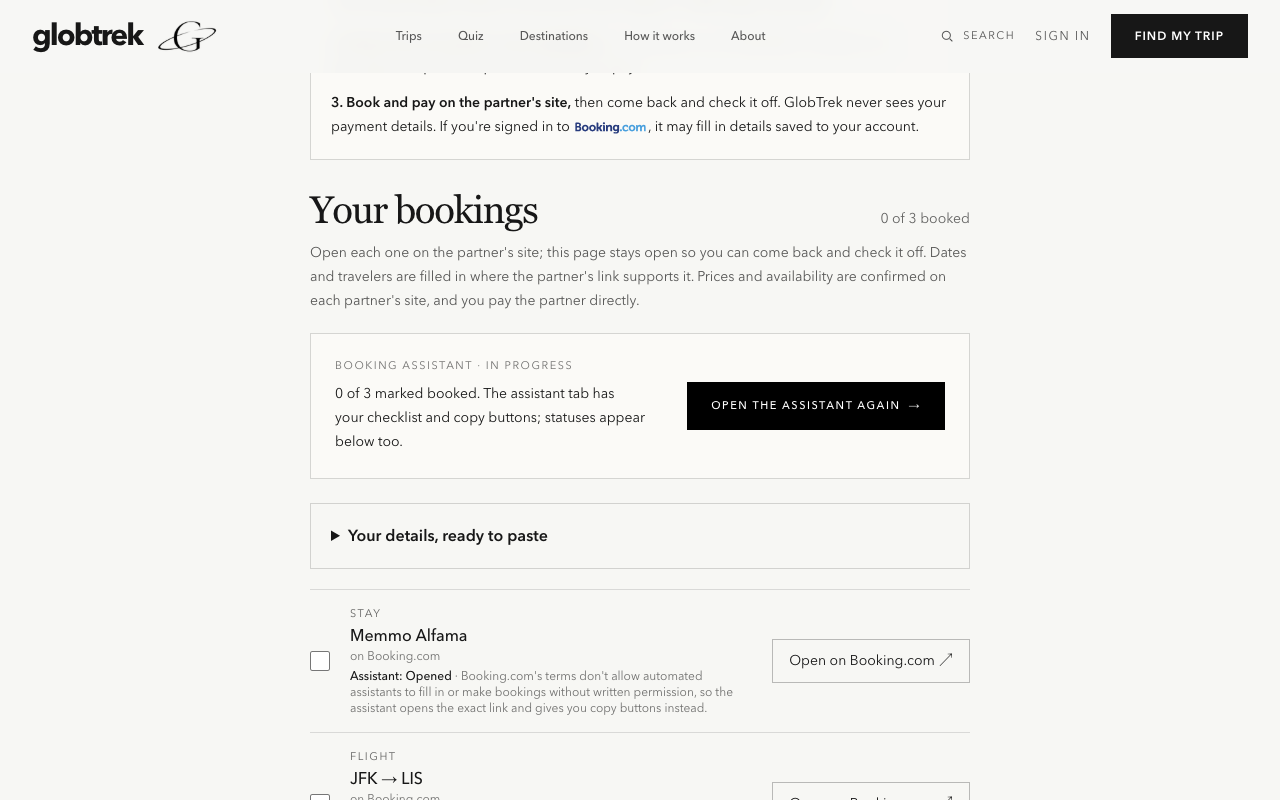
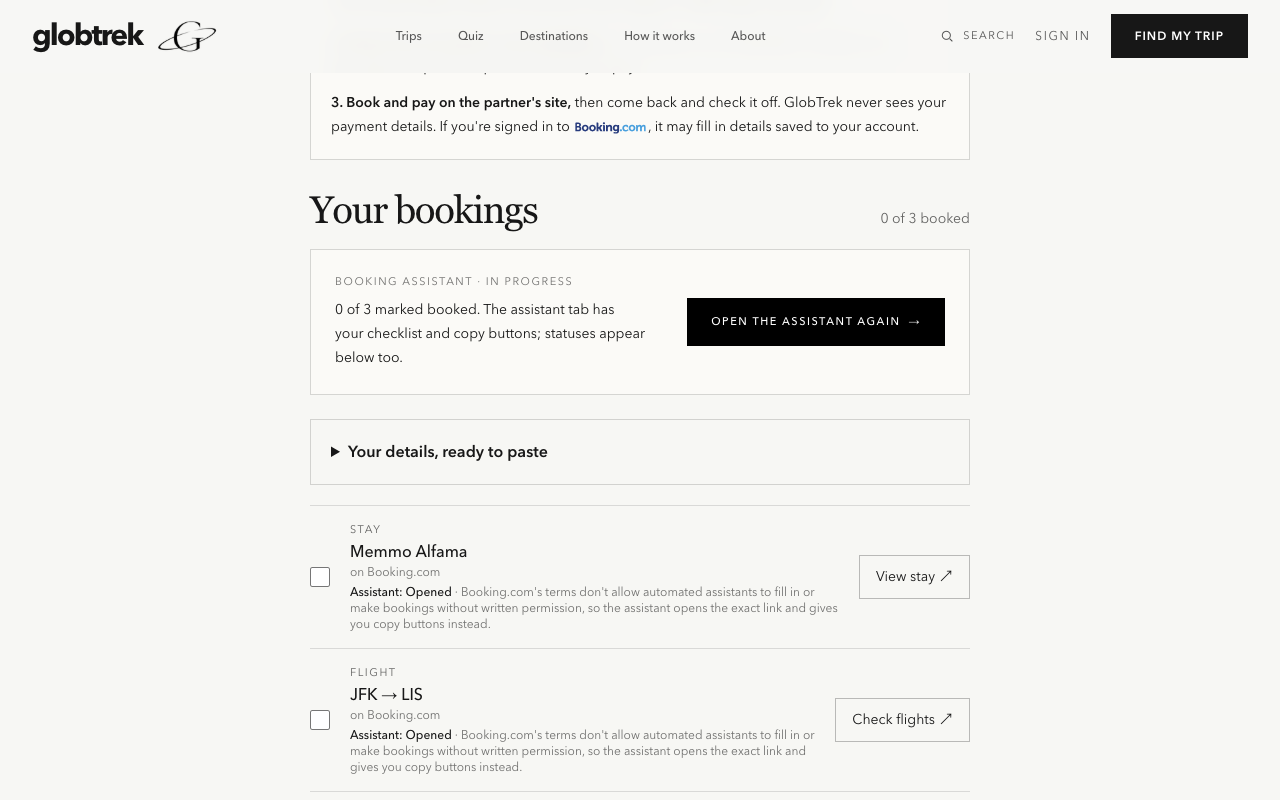
Booking Assistant: small accept card on every page, one Accept opens every booking
Site: a corner card on every page (desktop Chrome only, dismissible, same look
as the rest of the site). Without the extension it links to the Chrome Web
Store listing; with it and a trip on the page it asks "Book this trip from one
tab?" and Accept starts the assistant. The install link now defaults to the
accepted store listing.

Extension 0.2.0: START_SESSION takes an optional openAll flag, so Accept opens
every partner tab at GlobTrek's exact links and fills on load where the partner
allows. It still never submits, accepts terms or pays. 0.1.0 keeps working: it
opens the assistant tab and the traveler chooses.

diff --git a/app/components/AssistantPrompt.jsx b/app/components/AssistantPrompt.jsx
@@ -1,0 +1,92 @@
+"use client";
+
+import Link from "next/link";
+import { usePathname } from "next/navigation";
+import { useEffect, useState } from "react";
+import { track } from "@vercel/analytics";
+import { ASSISTANT_INSTALL_URL, assistantRequest, canUseExtension, subscribeAssistantTrip } from "../lib/booking/assistant";
+
+const INSTALL_DISMISSED = "globtrek:assistant-prompt:install";
+const TRIP_DISMISSED = (tripKey) => `globtrek:assistant-prompt:${tripKey}`;
+
+function remembered(storage, key) {
+  try { return window[storage].getItem(key) === "1"; } catch { return false; }
+}
+
+function remember(storage, key) {
+  try { window[storage].setItem(key, "1"); } catch {}
+}
+
+// The small corner card on every page, desktop Chrome only. With the assistant
+// installed and a trip on the page it asks once whether to book it from one tab;
+// without the assistant it says it exists. Either can be dismissed for good.
+export function AssistantPrompt() {
+  const pathname = usePathname();
+  const [installed, setInstalled] = useState(null);
+  const [trip, setTrip] = useState(null);
+  const [dismissed, setDismissed] = useState("");
+  const [opened, setOpened] = useState(0);
+
+  useEffect(() => subscribeAssistantTrip(setTrip), []);
+
+  useEffect(() => {
+    let cancelled = false;
+    if (!canUseExtension(window.navigator)) return undefined;
+    // Let the page settle first; the corner card is never the first thing to appear.
+    const timer = setTimeout(async () => {
+      const pong = await assistantRequest("PING", {}, { timeoutMs: 900 });
+      if (!cancelled) setInstalled(Boolean(pong?.ok));
+    }, 1200);
+    return () => { cancelled = true; clearTimeout(timer); };
+  }, []);
+
+  const mode = installed === null || pathname?.startsWith("/booking-assistant") ? null
+    : installed ? (trip?.state === "present" && !trip.session && trip.items ? "accept" : opened ? "opened" : null)
+    : remembered("localStorage", INSTALL_DISMISSED) ? null : "install";
+  const tripKey = trip?.tripKey || "";
+
+  useEffect(() => {
+    if (!opened) return undefined;
+    const timer = setTimeout(() => setOpened(0), 9000);
+    return () => clearTimeout(timer);
+  }, [opened]);
+
+  if (!mode || dismissed === `${mode}:${tripKey}` || (mode === "accept" && remembered("sessionStorage", TRIP_DISMISSED(tripKey)))) return null;
+
+  function dismiss() {
+    if (mode === "install") remember("localStorage", INSTALL_DISMISSED);
+    if (mode === "accept") remember("sessionStorage", TRIP_DISMISSED(tripKey));
+    track("assistant_prompt_dismissed", { mode });
+    setDismissed(`${mode}:${tripKey}`);
+    setOpened(0);
+  }
+
+  async function accept() {
+    const count = trip.items;
+    track("assistant_prompt_accepted", { items: count });
+    await trip.start({ openAll: true });
+    setOpened(count);
+  }
+
+  return <aside aria-label="GlobTrek Booking Assistant" className="fixed bottom-24 right-6 z-50 hidden w-[22rem] border border-black/10 bg-surface p-5 text-ink shadow-overlay sm:block">
+    <div className="flex items-start justify-between gap-4">
+      <p className="text-micro uppercase tracking-label text-black/55">{mode === "install" ? "New · Booking assistant" : "Booking assistant"}</p>
+      <button type="button" onClick={dismiss} aria-label="Dismiss" className="-mr-2 -mt-2 grid h-8 w-8 place-items-center text-lg leading-none text-black/55 hover:text-ink">×</button>
+    </div>
+    {mode === "install" ? <>
+      <p className="mt-2 font-serif text-xl leading-tight tracking-tight-2">Book your whole trip from one tab.</p>
+      <p className="mt-2 text-sm leading-6 text-black/70">A free Chrome extension. It opens every booking and fills your details where the partner allows. You review and pay yourself.</p>
+      <div className="mt-4 flex items-center gap-4">
+        <a href={ASSISTANT_INSTALL_URL} onClick={() => track("assistant_install_clicked", { from: "prompt" })} className="inline-flex min-h-10 items-center bg-black px-5 text-micro font-medium uppercase tracking-label text-white">Add to Chrome</a>
+        <Link href="/booking-assistant" className="text-sm underline decoration-black/25 underline-offset-4 hover:decoration-ink">How it works</Link>
+      </div>
+    </> : mode === "accept" ? <>
+      <p className="mt-2 font-serif text-xl leading-tight tracking-tight-2">Book this trip from one tab?</p>
+      <p className="mt-2 text-sm leading-6 text-black/70">Opens {trip.items === 1 ? "your booking" : `all ${trip.items} bookings`}, fills your details where the partner allows, and stops before you pay.</p>
+      <div className="mt-4 flex items-center gap-4">
+        <button type="button" onClick={accept} disabled={trip.busy} className="inline-flex min-h-10 items-center bg-black px-5 text-micro font-medium uppercase tracking-label text-white disabled:opacity-40">{trip.busy ? "Opening…" : "Accept"}</button>
+        <button type="button" onClick={dismiss} className="text-sm underline decoration-black/25 underline-offset-4 hover:decoration-ink">Not now</button>
+      </div>
+    </> : <p role="status" className="mt-2 text-sm leading-6">Opened {opened === 1 ? "your booking" : `${opened} bookings`}. The GlobTrek Assistant tab has your checklist and copy buttons.</p>}
+  </aside>;
+}

diff --git a/app/components/BookingAssistant.jsx b/app/components/BookingAssistant.jsx
@@ -3,7 +3,7 @@
 import Link from "next/link";
 import { useEffect, useRef, useState } from "react";
 import { track } from "@vercel/analytics";
-import { ASSISTANT_INSTALL_URL, assistantRequest, assistantTrip, canUseExtension, onAssistantStatus } from "../lib/booking/assistant";
+import { ASSISTANT_INSTALL_URL, assistantRequest, assistantTrip, canUseExtension, onAssistantStatus, shareAssistantTrip, supportsOpenAll } from "../lib/booking/assistant";
 
 const SESSION_KEY = (tripKey) => `globtrek:assistant-session:${tripKey}`;
 
@@ -15,8 +15,11 @@ export function BookingAssistant({ entries, trip, tripKey, onStatuses }) {
   const [session, setSession] = useState(null);
   const [error, setError] = useState("");
   const [busy, setBusy] = useState(false);
+  const [version, setVersion] = useState("");
   const dialog = useRef(null);
+  const startRef = useRef(null);
   const payload = assistantTrip({ entries, ...trip });
+  const itemCount = payload?.items.length ?? 0;
 
   useEffect(() => {
     let cancelled = false;
@@ -34,6 +37,7 @@ export function BookingAssistant({ entries, trip, tripKey, onStatuses }) {
       if (cancelled) return;
       if (!pong?.ok) { setState("absent"); return; }
       setState("present");
+      setVersion(typeof pong.version === "string" ? pong.version : "");
       const existing = readSession();
       if (existing) {
         const status = await assistantRequest("GET_STATUS", { sessionId: existing });
@@ -43,7 +47,13 @@ export function BookingAssistant({ entries, trip, tripKey, onStatuses }) {
     return () => { cancelled = true; unsubscribe(); };
   }, [tripKey]); // eslint-disable-line react-hooks/exhaustive-deps
 
-  async function start() {
+  // Offer this trip to the site-wide prompt while the checklist is on the page.
+  useEffect(() => {
+    if (!itemCount) return undefined;
+    return shareAssistantTrip({ tripKey, items: itemCount, state, session, busy, start: (options) => startRef.current?.(options) });
+  }, [tripKey, itemCount, state, session, busy]);
+
+  async function start({ openAll = false } = {}) {
     if (state !== "present") { dialog.current?.showModal(); track("assistant_install_prompt", { state }); return; }
     if (!payload) return;
     if (session) {
@@ -53,14 +63,16 @@ export function BookingAssistant({ entries, trip, tripKey, onStatuses }) {
     }
     setBusy(true);
     setError("");
-    const response = await assistantRequest("START_SESSION", { trip: payload }, { timeoutMs: 5000 });
+    // openAll opens every booking tab straight away; older versions open the assistant tab and let the traveler choose.
+    const response = await assistantRequest("START_SESSION", { trip: payload, ...(openAll && supportsOpenAll(version) ? { openAll: true } : {}) }, { timeoutMs: 8000 });
     setBusy(false);
     if (!response?.ok) { setError("The assistant couldn't start. Open each booking below instead."); return; }
     try { window.sessionStorage.setItem(SESSION_KEY(tripKey), response.sessionId); } catch {}
     setSession(response.status);
     onStatuses?.(response.status);
-    track("assistant_session_started", { items: payload.items.length });
+    track("assistant_session_started", { items: payload.items.length, openAll });
   }
+  useEffect(() => { startRef.current = start; });
 
   if (!payload) return null;
   const done = session ? session.items.filter((item) => item.status === "user_complete").length : 0;
@@ -77,7 +89,7 @@ export function BookingAssistant({ entries, trip, tripKey, onStatuses }) {
           : <p className="mt-2 max-w-xl text-sm leading-6">Open {payload.items.length === 1 ? "your booking" : `all ${payload.items.length} bookings`} at once. You pay each provider on their site.</p>}
         {error ? <p role="alert" className="mt-2 text-sm text-danger">{error}</p> : null}
       </div>
-      <button type="button" onClick={start} disabled={state === "checking" || busy} aria-haspopup={state === "present" ? undefined : "dialog"} className="inline-flex min-h-12 items-center justify-center gap-2 bg-black px-6 text-micro font-medium uppercase tracking-label text-white disabled:opacity-40">
+      <button type="button" onClick={() => start()} disabled={state === "checking" || busy} aria-haspopup={state === "present" ? undefined : "dialog"} className="inline-flex min-h-12 items-center justify-center gap-2 bg-black px-6 text-micro font-medium uppercase tracking-label text-white disabled:opacity-40">
         {state === "checking" ? "Checking…" : busy ? "Opening…" : session ? "Open the assistant again" : "Book my trip"} <span aria-hidden="true">→</span>
       </button>
     </div>}

diff --git a/extension/src/shared/schema.ts b/extension/src/shared/schema.ts
@@ -47,7 +47,7 @@ export type WebRequest =
   | { channel: typeof CHANNEL; v: 1; kind: "request"; requestId: string; type: "PING" }
   | { channel: typeof CHANNEL; v: 1; kind: "request"; requestId: string; type: "GET_STATUS"; sessionId: string }
   | { channel: typeof CHANNEL; v: 1; kind: "request"; requestId: string; type: "OPEN_SESSION"; sessionId: string }
-  | { channel: typeof CHANNEL; v: 1; kind: "request"; requestId: string; type: "START_SESSION"; trip: TripPayload };
+  | { channel: typeof CHANNEL; v: 1; kind: "request"; requestId: string; type: "START_SESSION"; trip: TripPayload; openAll: boolean };
 
 /** What the website may learn about a session: statuses only, never traveler data. */
 export interface PublicSessionStatus {
@@ -175,7 +175,7 @@ export function byteLength(value: unknown): number {
 /** Validates a request from the website. Throws SchemaError with a safe message. */
 export function validateWebRequest(value: unknown, { dev = false }: { dev?: boolean } = {}): WebRequest {
   if (byteLength(value) > MAX_MESSAGE_BYTES) throw new SchemaError("message", "is too large");
-  const base = exactKeys(value, "message", ["channel", "v", "kind", "requestId", "type"], ["trip", "sessionId"]);
+  const base = exactKeys(value, "message", ["channel", "v", "kind", "requestId", "type"], ["trip", "sessionId", "openAll"]);
   if (base.channel !== CHANNEL) throw new SchemaError("message.channel", "is not the booking assistant channel");
   if (base.v !== PROTOCOL_VERSION) throw new SchemaError("message.v", "is an unsupported protocol version");
   if (base.kind !== "request") throw new SchemaError("message.kind", "must be request");
@@ -191,8 +191,10 @@ export function validateWebRequest(value: unknown, { dev = false }: { dev?: bool
       exactKeys(value, "message", ["channel", "v", "kind", "requestId", "type", "sessionId"]);
       return { channel: CHANNEL, v: 1, kind: "request", requestId, type: "OPEN_SESSION", sessionId: str(base.sessionId, "message.sessionId", { max: 42, pattern: SESSION_ID }) };
     case "START_SESSION":
-      exactKeys(value, "message", ["channel", "v", "kind", "requestId", "type", "trip"]);
-      return { channel: CHANNEL, v: 1, kind: "request", requestId, type: "START_SESSION", trip: validateTrip(base.trip, { dev }) };
+      exactKeys(value, "message", ["channel", "v", "kind", "requestId", "type", "trip"], ["openAll"]);
+      // openAll (0.2.0+): the traveler accepted on the site, so open every booking now instead of waiting in the assistant tab.
+      if ("openAll" in base && typeof base.openAll !== "boolean") throw new SchemaError("message.openAll", "must be true or false");
+      return { channel: CHANNEL, v: 1, kind: "request", requestId, type: "START_SESSION", trip: validateTrip(base.trip, { dev }), openAll: base.openAll === true };
     default:
       throw new SchemaError("message.type", "is not a supported request");
   }

diff --git a/app/lib/booking/assistant.js b/app/lib/booking/assistant.js
@@ -11,8 +11,8 @@ export const ASSISTANT_CHANNEL = "globtrek-booking-assistant";
 export const ASSISTANT_PROTOCOL = 1;
 const MAX_ITEMS = 12;
 
-// Placeholder until the Chrome Web Store assigns the listing URL.
-export const ASSISTANT_INSTALL_URL = process.env.NEXT_PUBLIC_GLOBTREK_EXTENSION_URL || "/booking-assistant#install";
+// The Chrome Web Store listing (accepted 2026-11-18); NEXT_PUBLIC_GLOBTREK_EXTENSION_URL overrides it.
+export const ASSISTANT_INSTALL_URL = process.env.NEXT_PUBLIC_GLOBTREK_EXTENSION_URL || "https://chromewebstore.google.com/detail/globtrek-one-tab-booking/bokbebgaaaclmamhmcmkebbjdbbddoao";
 
 // Hosts the extension accepts, mirrored from extension/src/shared/partners.ts.
 const ASSISTANT_HOSTS = [
@@ -144,3 +144,31 @@ export const ASSISTANT_STATUS_LABELS = {
   user_complete: "Marked complete",
   failed_safely: "Stopped safely",
 };
+
+/** Whether this installed version can open every booking straight from the site (0.2.0 and later). */
+export function supportsOpenAll(version) {
+  const [major = 0, minor = 0] = String(version || "").split(".").map((part) => Number.parseInt(part, 10) || 0);
+  return major > 0 || minor >= 2;
+}
+
+// The trip on the current page, shared with the small site-wide prompt so it can
+// offer the same "Book my trip" without a second copy of the logic.
+let sharedTrip = null;
+const tripListeners = new Set();
+
+/** Shares this page's trip with the prompt; returns a function that withdraws it. */
+export function shareAssistantTrip(value) {
+  sharedTrip = value;
+  tripListeners.forEach((listener) => listener(sharedTrip));
+  return () => {
+    if (sharedTrip !== value) return;
+    sharedTrip = null;
+    tripListeners.forEach((listener) => listener(null));
+  };
+}
+
+export function subscribeAssistantTrip(listener) {
+  tripListeners.add(listener);
+  listener(sharedTrip);
+  return () => tripListeners.delete(listener);
+}

diff --git a/extension/src/background/index.ts b/extension/src/background/index.ts
@@ -93,14 +93,16 @@ async function handleWebRequest(raw: unknown, sender: chrome.runtime.MessageSend
       return { ok: true, status: publicStatus(session) };
     }
     case "START_SESSION": {
-      const session = createSession(request.trip, { origin, sourceTabId: sender.tab.id ?? null, dev: IS_DEV });
+      const session = { ...createSession(request.trip, { origin, sourceTabId: sender.tab.id ?? null, dev: IS_DEV }), ...(request.openAll ? { mode: "all" as const } : {}) };
       await mutate((sessions) => ({ sessions: { ...sessions, [session.id]: session }, result: null }));
-      const assistantTab: chrome.tabs.CreateProperties = { url: chrome.runtime.getURL(`assistant.html#/session/${session.id}`), active: true };
+      const assistantTab: chrome.tabs.CreateProperties = { url: chrome.runtime.getURL(`assistant.html#/session/${session.id}`), active: !request.openAll };
       if (sender.tab.index !== undefined) assistantTab.index = sender.tab.index + 1;
       if (sender.tab.windowId !== undefined) assistantTab.windowId = sender.tab.windowId;
       await chrome.tabs.create(assistantTab);
-      logEvent("session_started", { items: session.items.length });
-      return { ok: true, sessionId: session.id, status: publicStatus(session) };
+      // Partner tabs open at the exact approved links and fill on load where allowed; nothing is submitted.
+      const latest = request.openAll ? await openItems(session.id, session.items.map((item) => item.id)) : null;
+      logEvent("session_started", { items: session.items.length, openAll: request.openAll });
+      return { ok: true, sessionId: session.id, status: publicStatus(latest ?? session) };
     }
   }
 }

diff --git a/extension/tests/schema.test.ts b/extension/tests/schema.test.ts
@@ -85,6 +85,12 @@ test("the website cannot smuggle code, selectors, HTML or commands", () => {
 test("envelope checks: channel, version, request id, size", () => {
   assert.equal(validateWebRequest(request({ type: "PING" })).type, "PING");
   assert.equal(validateWebRequest(request({ type: "START_SESSION", trip: validTrip })).type, "START_SESSION");
+  const plain = validateWebRequest(request({ type: "START_SESSION", trip: validTrip }));
+  assert.equal(plain.type === "START_SESSION" && plain.openAll, false);
+  const openAll = validateWebRequest(request({ type: "START_SESSION", trip: validTrip, openAll: true }));
+  assert.equal(openAll.type === "START_SESSION" && openAll.openAll, true);
+  assert.throws(() => validateWebRequest(request({ type: "START_SESSION", trip: validTrip, openAll: "yes" })), /true or false/);
+  assert.throws(() => validateWebRequest(request({ type: "PING", openAll: true })), /not an expected field/);
   assert.throws(() => validateWebRequest({ ...request({ type: "PING" }), channel: "other" }));
   assert.throws(() => validateWebRequest({ ...request({ type: "PING" }), v: 2 }), /version/);
   assert.throws(() => validateWebRequest({ ...request({ type: "PING" }), requestId: "x" }));

diff --git a/app/layout.jsx b/app/layout.jsx
@@ -1,5 +1,6 @@
 import "./globals.css";
 import { Analytics } from "@vercel/analytics/next";
+import { AssistantPrompt } from "./components/AssistantPrompt";
 import { AuthProvider } from "./components/AuthProvider";
 import { OfflineNotice } from "./components/OfflineNotice";
 import { CONTACT_EMAIL, INSTAGRAM_URL, LEGAL_NAME, SITE_URL } from "./lib/site";
@@ -50,6 +51,7 @@ export default function RootLayout({ children }) {
         <script type="application/ld+json" dangerouslySetInnerHTML={{ __html: JSON.stringify(organization) }} />
         <AuthProvider>{children}</AuthProvider>
         <OfflineNotice />
+        <AssistantPrompt />
         <Analytics />
       </body>
     </html>

diff --git a/extension/docs/SECURITY.md b/extension/docs/SECURITY.md
@@ -14,7 +14,7 @@ No analytics, crash reporting or network requests exist in the extension; the bu
 ## Website ↔ extension
 
 - Bridge content script on `https://www.glob-trek.com/*` only (dev builds add localhost and `globtrek-potr-*.vercel.app`; both are compiled into dev builds only and still checked in code).
-- Messages: `{ channel, v: 1, kind: "request", requestId, type }` with types `PING`, `START_SESSION`, `GET_STATUS`, `OPEN_SESSION`. Validation (`src/shared/schema.ts`) rejects unknown origins, unknown fields at every level, wrong versions, payloads over 16 KB, more than 12 items, bad dates, control characters, and any URL that isn't https on an allowlisted partner host (no credentials, ports or IP hosts; CJ links only when their `url` target is Booking.com; raw Booking.com refused so affiliate tracking can't be stripped).
+- Messages: `{ channel, v: 1, kind: "request", requestId, type }` with types `PING`, `START_SESSION`, `GET_STATUS`, `OPEN_SESSION`. `START_SESSION` may carry `openAll: true` (0.2.0+) after the traveler presses Accept on the site; it only opens the trip's own validated links and never submits anything. Validation (`src/shared/schema.ts`) rejects unknown origins, unknown fields at every level, wrong versions, payloads over 16 KB, more than 12 items, bad dates, control characters, and any URL that isn't https on an allowlisted partner host (no credentials, ports or IP hosts; CJ links only when their `url` target is Booking.com; raw Booking.com refused so affiliate tracking can't be stripped).
 - The website can't send code, selectors, HTML or commands; adapters are compiled into the package.
 - A page may read or reopen only sessions its own origin started. The site receives statuses and generic notes, never details.
 

diff --git a/CHANGELOG.md b/CHANGELOG.md
@@ -1,6 +1,11 @@
 # Changelog
 
-## Booking Assistant for Chrome (2026-11-09, branch only — not deployed)
+## Booking Assistant: one Accept from any page (2026-11-18)
+
+- Site: a small corner card on every page (desktop Chrome only, dismissible). Without the assistant it links to the Chrome Web Store; with it and a trip on the page it asks "Book this trip from one tab?" and one Accept opens every booking. The look of the site is unchanged.
+- Extension 0.2.0: `START_SESSION` takes an optional `openAll` flag, so Accept opens every partner tab at GlobTrek's exact links and fills on load where the partner allows; it still stops before payment. Version 0.1.0 keeps working (it opens the assistant tab and the traveler chooses).
+
+## Booking Assistant for Chrome (2026-11-09; live, accepted to the Chrome Web Store)
 
 - New Manifest V3 extension in `extension/`: one-tab booking from the GlobTrek checklist. Opens each booking with GlobTrek's exact (CJ-tracked) link, guided or all at once; fills the traveler's own details where the partner allows it; reports Opened / Filling / Filled / Needs attention / Ready to review / Ready to pay / Marked complete / Stopped safely; never submits, accepts terms or pays.
 - No account: profile saved on the device or "use once and forget"; stored-field list, export, delete passports, forget everything. Optional passport storage, off by default, AES-GCM with a passphrase and auto-lock. Card numbers, CVV, passwords and one-time codes are refused.

diff --git a/extension/README.md b/extension/README.md
@@ -1,5 +1,7 @@
 # GlobTrek One Tab Booking Assistant (Chrome extension)
 
+Chrome Web Store: https://chromewebstore.google.com/detail/globtrek-one-tab-booking/bokbebgaaaclmamhmcmkebbjdbbddoao
+
 Manifest V3 extension that books a GlobTrek trip from one tab: it opens each booking GlobTrek selected, fills the traveler's own details where the partner allows it, tracks status, and stops before payment. Works with `www.glob-trek.com`'s booking checklist (`app/components/BookingChecklist.jsx` → `BookingAssistant.jsx`).
 
 - Plan: [`docs/PLAN.md`](docs/PLAN.md)
